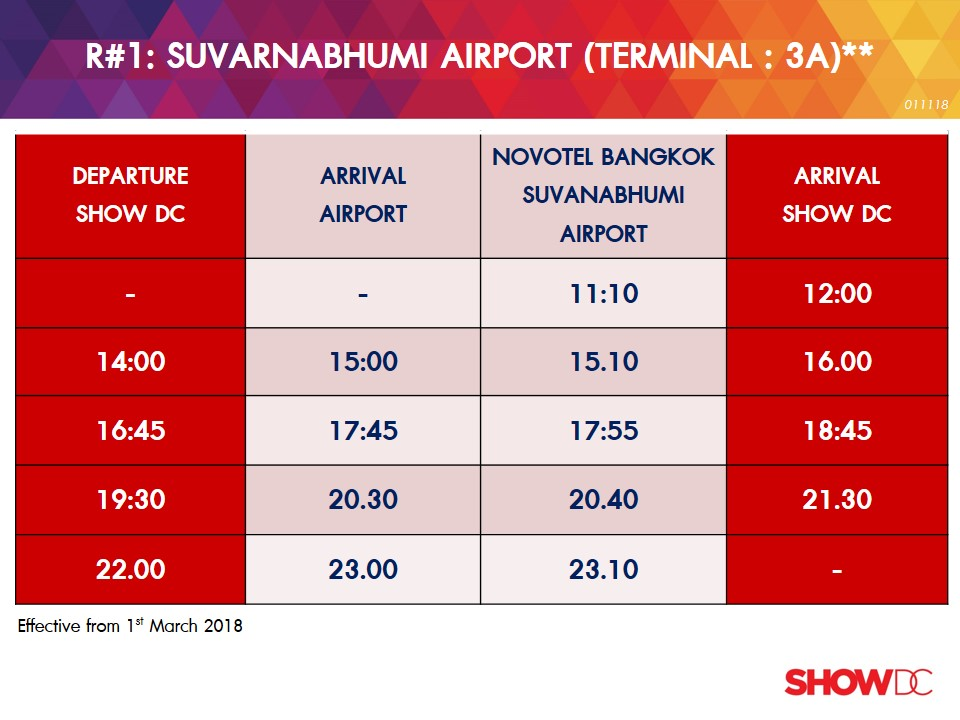
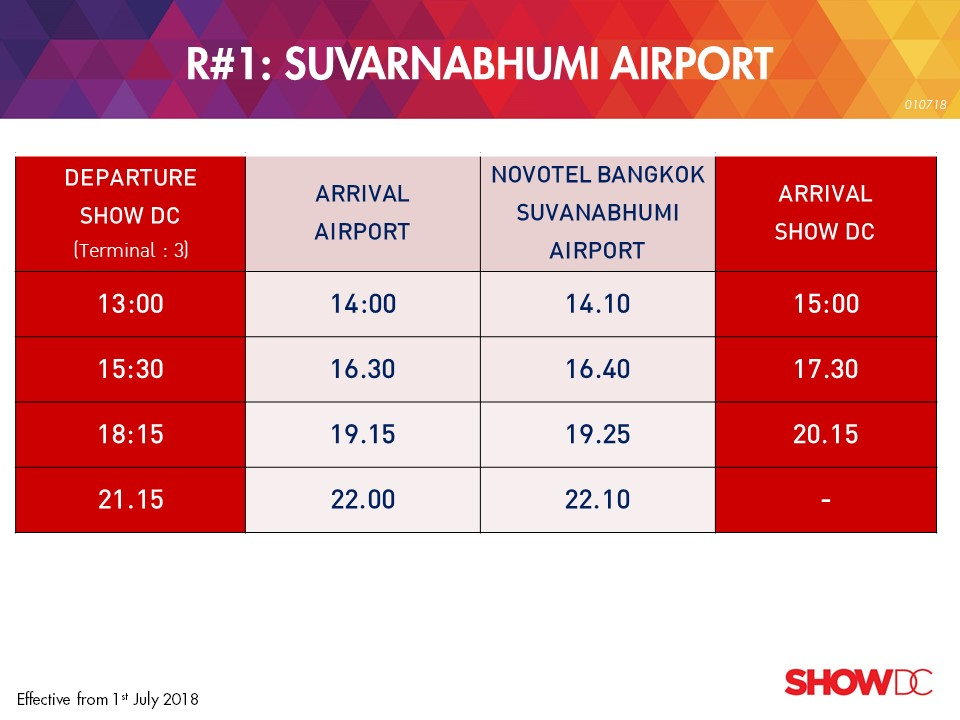
Chang photo and tax page suttet bus services

diff --git a/th-TH/What-Is-New/SHOW-DC-Shuttle-Bus-Service.html b/th-TH/What-Is-New/SHOW-DC-Shuttle-Bus-Service.html
@@ -5,7 +5,7 @@
 <!-- Added by HTTrack --><meta http-equiv="content-type" content="text/html;charset=utf-8" /><!-- /Added by HTTrack -->
 <head>
     <meta charset="utf-8">
-    <title>SHOW DC Shuttle Bus Service</title>
+    <title>SHOW DC Shuttle  Service</title>
     <meta name="description" content="บริการรถรับส่งฟรีจากโรงแรมที่เข้าร่วม ใกล้สถานีรถไฟฟ้า สถานีรถใต้ดิน ที่ให้บริการเดินทางไป-กลับโชว์ ดีซี" />
     <meta http-equiv="X-UA-Compatible" content="IE=edge">
     <meta name="viewport" content="width=device-width, initial-scale=1, maximum-scale=1, user-scalable=no">
@@ -708,7 +708,7 @@
 
             <div class="row item-name">
                 <div class="col-xs-12 col-sm-8">
-                    <h2>SHOW DC Shuttle Bus Service</h2>
+                    <h2>SHOW DC Shuttle Service</h2>
                     <label class="item-public">Published on 05 Mar 2018</label>
                 </div>
                 <div class="col-xs-4 hidden-xs">
@@ -727,11 +727,16 @@
                 <div class="col-xs-12 col-md-10 col-md-offset-1">
 
                     <div class="item-description">
-                        <p style="text-align: left;">การเดินทางมา SHOW DC เป็นเรื่องง่ายด้วยระบบ คมนาคมที่สะดวกสบาย ชวนเพื่อนต่างชาติช้อป เพลินก่อนเดินทางกลับ เรามีบริการรถรับส่งฟรีจากโรงแรมที่เข้าร่วม ใกล้สถานีรถไฟฟ้า สถานีรถใต้ดิน และ แอร์พอร์ต เรล ลิ้ง ที่ให้บริการเดินทางไป-กลับโชว์ ดีซี<br />
+                        <p style="text-align: left;">เพื่อเป็นการพัฒนาและปรับปรุงบริการสำหรับลูกค้าให้ดียิ่งขึ้น  โชว์ ดีซี จะปรับการให้บริการรถรับส่งตั้งแตวันที่ 1 กรกฎาคม 2561 นี้ เป็นต้นไป ซึ่งบริการนี้จะเชื่อมต่อการเดินทางระหว่างโชว์ ดีซี กับสนามบืนนานาชาติทั้งสองแห่ง และรถไฟฟ้าใต้ดิน MRT สถานีเพชรบุรี ซึ่งจะช่วยให้ลูกค้าสามาถเดินทางทั้งไปและกลับจากโชว์ ดีซีทั้งจากสยามบิน และจากตัวเมืองได้อย่างสะดวกสบาย <br />
+                        	<p></p>
+                        	กรณีต้องการข้อมูลเพิ่มเติม หรือตารางเดินรถอัพเดท สามารถติดต่อ SHOW DC Facebook หรือโทร.02-203-1890 
+                        	<p></p>
 <br />
-&nbsp;*รบกวนติดต่อเจ้าหน้าที่ ชั้น 1 Bangkok Tourist Lounge เพื่อสำรองที่นั่งก่อนเดินทางสู่สนามบิน อย่างน้อย 15 นาที (ทั้งนี้เราไม่สามารถบริการรับกลับจากทางสนามบินมายังโชว์ ดีซี ได้ จึงต้องขออภัยมา ณ ที่นี้ด้วย)</p>
-<p><img alt="" class="img-responsive" src="../../-/media/R1-Suvarnabhumi9fb2.jpg?la=th-TH&amp;hash=76A2EF852D1AFFB3F6521E6C067ED4CD5B577858" /></p>
-<p><img alt="" class="img-responsive" src="../../-/media/R2-Don-Muang0376.jpg?la=th-TH&amp;hash=5D06E30A4EE062D5334323BF9F092594BED2A81C" /><img alt="" class="img-responsive" src="../../-/media/R3-MRT-Cultural-Center-Thai7a2f.jpg?la=th-TH&amp;hash=CCC5A441715C0AC9EAFE7DB8C7053B5F6C8BBF67" /><img alt="" class="img-responsive" src="../../-/media/R4-Khao-San586a.jpg?la=th-TH&amp;hash=29E9E5BB6647EA0435D50FA5C73538F32576401A" /><img alt="" class="img-responsive" src="../../-/media/R5-Ratchada17d8.jpg?la=th-TH&amp;hash=DA31C0DA5218F12B877C0A567339F660A554C54B" /><img alt="" class="img-responsive" src="../../-/media/R6-Siame3d0.jpg?la=th-TH&amp;hash=40BBF47678099BAB1DFD2BF01194416811519A30" /><img alt="" class="img-responsive" src="../../-/media/R7-Airport-rail-linkefa7.jpg?la=th-TH&amp;hash=065E3456BA99FAEAC6643AAE6226A9BF5AF9D57A" />&nbsp;</p>
+&nbsp;*ไม่มีบริการรับกลับจากสนามบินทั้งสองแห่ง ขออภัยมา ณ ที่นี้</p>
+
+
+<p><img alt="" class="img-responsive" src="../../-/media/R1-Suvarnabhumi2f0e.jpg?la=th-TH&amp;hash=76A2EF852D1AFFB3F6521E6C067ED4CD5B577858" /></p>
+<p><img alt="" class="img-responsive" src="../../-/media/R2-Don-Muangc7b2.jpg?la=th-TH&amp;hash=5D06E30A4EE062D5334323BF9F092594BED2A81C" /><img alt="" class="img-responsive" src="../../-/media/R3-MRT-Cultural-Center-Thaif314.jpg?la=th-TH&amp;hash=CCC5A441715C0AC9EAFE7DB8C7053B5F6C8BBF67" /><img alt="" class="img-responsive" src="../../-/media/R4-Khao-San586a.jpg?la=th-TH&amp;hash=29E9E5BB6647EA0435D50FA5C73538F32576401A" /><img alt="" class="img-responsive" src="../../-/media/R5-Ratchada17d8.jpg?la=th-TH&amp;hash=DA31C0DA5218F12B877C0A567339F660A554C54B" /><img alt="" class="img-responsive" src="../../-/media/R6-Siame3d0.jpg?la=th-TH&amp;hash=40BBF47678099BAB1DFD2BF01194416811519A30" /><img alt="" class="img-responsive" src="../../-/media/R7-Airport-rail-linkefa7.jpg?la=th-TH&amp;hash=065E3456BA99FAEAC6643AAE6226A9BF5AF9D57A" />&nbsp;</p>
                     </div>
                     <div class="post-share visible-xs">
                         <div class="sharing">

diff --git a/What-Is-New/SHOW DC Shuttle Bus Service.html b/What-Is-New/SHOW DC Shuttle Bus Service.html
@@ -5,7 +5,7 @@
 <!-- Added by HTTrack --><meta http-equiv="content-type" content="text/html;charset=utf-8" /><!-- /Added by HTTrack -->
 <head>
     <meta charset="utf-8">
-    <title>SHOW DC Shuttle Bus Service</title>
+    <title>SHOW DC Shuttle  Service</title>
     <meta name="description" content="The free shuttle bus services will be managed and operate by TM SHOW Corp from selective Bangkok Downtown Hotels, BTS and MRT to SHOW DC." />
     <meta http-equiv="X-UA-Compatible" content="IE=edge">
     <meta name="viewport" content="width=device-width, initial-scale=1, maximum-scale=1, user-scalable=no">
@@ -726,7 +726,7 @@
 
             <div class="row item-name">
                 <div class="col-xs-12 col-sm-8">
-                    <h2>SHOW DC Shuttle Bus Service</h2>
+                    <h2>SHOW DC Shuttle Service</h2>
                     <label class="item-public">Published on 05 Mar 2018</label>
                 </div>
                 <div class="col-xs-4 hidden-xs">
@@ -745,11 +745,18 @@
                 <div class="col-xs-12 col-md-10 col-md-offset-1">
 
                     <div class="item-description">
-                        <p style="text-align: left;">SHOW DC is easily accessible by various types of transportation. The free shuttle bus services from selective Bangkok Downtown Hotels, BTS, MRT and Airport Rail Link to SHOW DC.<br />
+                        <p style="text-align: left;">To further improve our services, SHOW DC introduces the new plan of shuttle service starting from 1st July 2018 onwards.  This will connect SHOW DC to both international airports*, and MRT Petchburi Station which will make it convenient for customers to travel to and from SHOW DC, from the airports and city center.<br />
+                        <p>	</p>
+                        
+
+                        For more information or updated schedule, please contact SHOW DC Facebook or Tel. 02-203-1890.
+
+                        
+                        <p>	</p>
 <br />
-*Please contact information counter at Bangkok Tourist Lounge (1st Floor) to reserve the seat at least 15 minutes before departure time.&nbsp;<br />
-(Pick Up service from airport to SHOW DC is not provided. We apologize for any inconveniences this may cause.)</p>
+*Pick Up service from both airports to SHOW DC is not provided. We apologize for any inconveniences this may cause.</p>
 <p style="text-align: left;"><img alt="" class="img-responsive" src="../-/media/R1-Suvarnabhumi2f0e.jpg?la=en&amp;hash=94E93A99C10E748B547D0B0FA5EB6B28411C6078" /></p>
+
 <p><img alt="" class="img-responsive" src="../-/media/R2-Don-Muangc7b2.jpg?la=en&amp;hash=E8BD6E81F80FD684C38290702007E724E1668E1B" /><img alt="" class="img-responsive" src="../-/media/R3-MRT-Cultural-Center-Thaif314.jpg?la=en&amp;hash=6C7B65FAD62083F37EB04AA7ECCF51C851A17ACB" /><img alt="" class="img-responsive" src="../-/media/R4-Khao-Sanb733.jpg?la=en&amp;hash=85EBA76D9BC0CA29C207CDB8FA089014F3336CDB" /><img alt="" class="img-responsive" src="../-/media/R5-Ratchadab348.jpg?la=en&amp;hash=D35E736CF998C1D4C077776EF11AD88C651F1E8A" /><img alt="" class="img-responsive" src="../-/media/R6-Siam40cf.jpg?la=en&amp;hash=C89B91901D7B4EE23DAFCAD45573ED6513804F1E" /><img alt="" class="img-responsive" src="../-/media/R7-Airport-rail-link3be6.jpg?la=en&amp;hash=8F7DE1D86EDE92BB7F2A2016D2BA93ADC39260C0" />&nbsp;</p>
                     </div>
                     <div class="post-share visible-xs">
